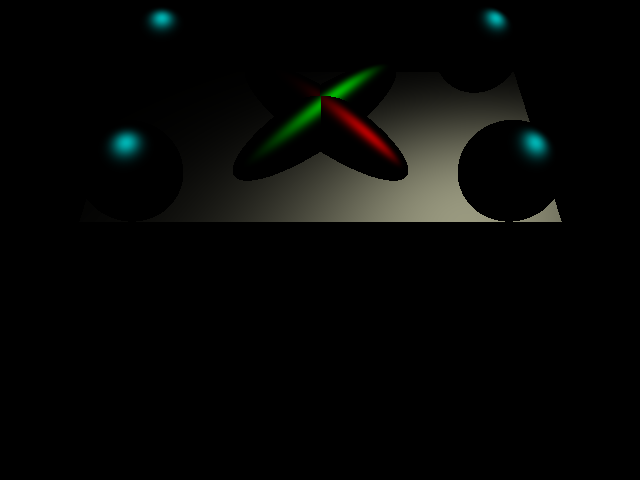
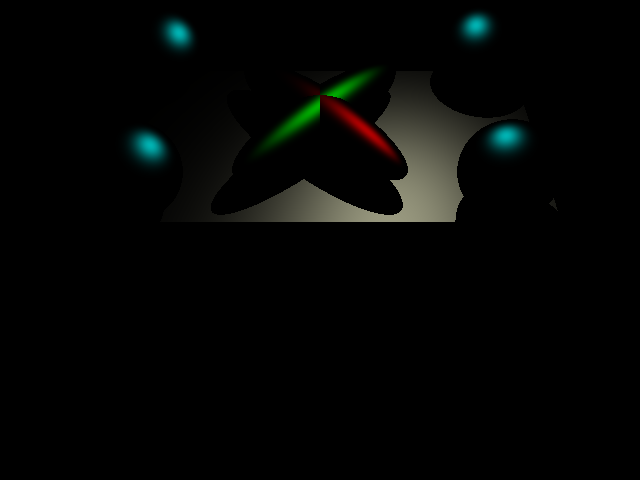
change to 0.01 for both directional and point

diff --git a/hw4/main.cpp b/hw4/main.cpp
@@ -216,12 +216,12 @@ float computeV(vec3& intP, vec4& lightDir) {
     //if directional
     if (lightDir[3] == 0) {
         ray.dir = normalize(-vec3(lightDir[0], lightDir[1], lightDir[2]));
-        ray.ori = intP+ (float(0.1) * ray.dir);
+        ray.ori = intP+ (float(0.01) * ray.dir);
     }
     //point
     else {
         ray.dir = normalize(vec3(lightDir) - intP);
-        ray.ori = intP + (float(0.001) * ray.dir);
+        ray.ori = intP + (float(0.01) * ray.dir);
     }
     hit_record h = Intersection(obj, ray);
     if (h.t == -1) {
